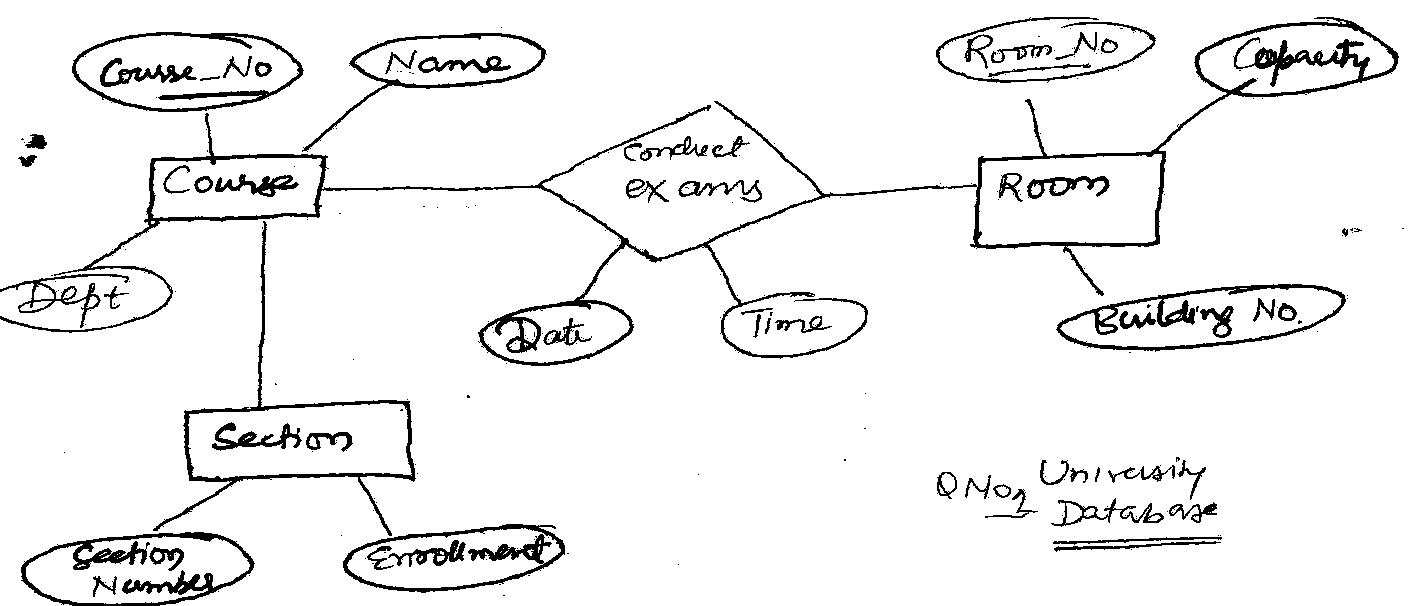
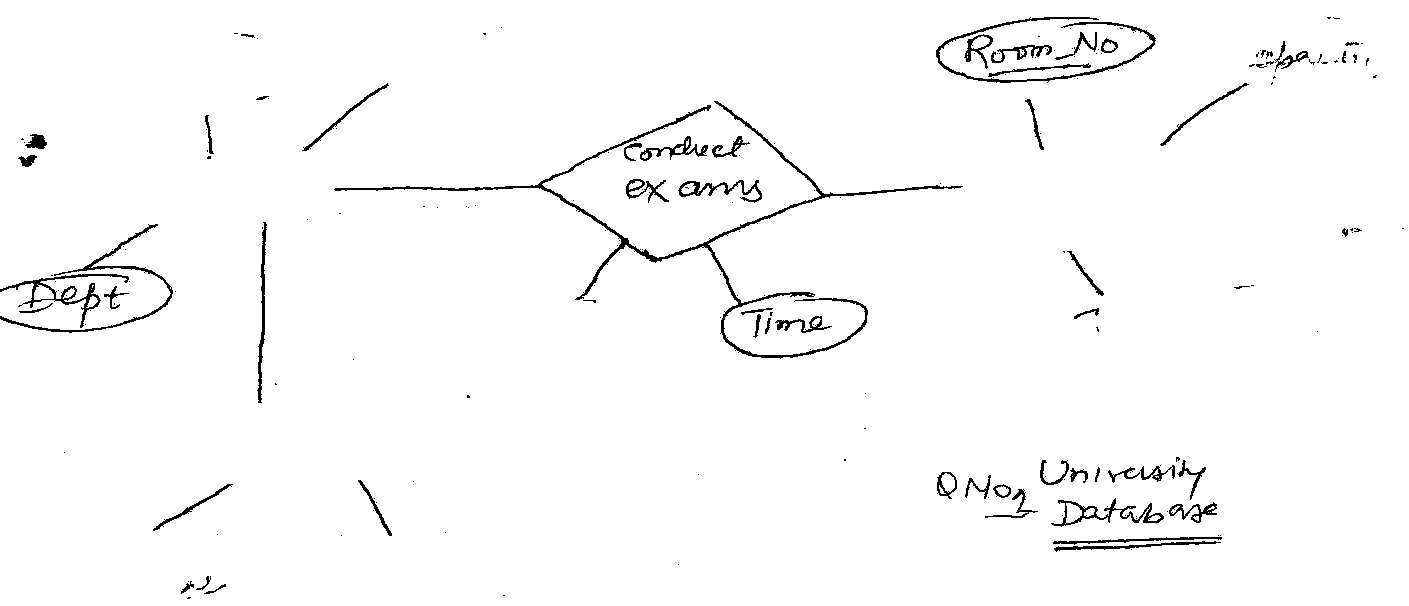
close opened shapes

diff --git a/src/removeLines.py b/src/removeLines.py
@@ -74,3 +74,69 @@ def getClosedShapes(im_filled,debug=False):
         cv2.imwrite("contoured.png", im_empty[:,:,0])
 
     return im_empty[:,:,0] , filtered_contoures
+
+
+#handling opened contours
+
+# find center of gravity from the moments:
+def scale_contours(contours, scale):
+    """Shrinks or grows an array of contours by the given factor (float). 
+    Returns the resized array of contours"""
+    for idx,contour in enumerate(contours):
+        moments = cv2.moments(contour)
+        midX = int(round(moments["m10"] / moments["m00"]))
+        midY = int(round(moments["m01"] / moments["m00"]))
+        mid = np.array([midX, midY])
+        contours[idx] = contour - mid
+        contours[idx] = (contours[idx] * scale).astype(np.int32)
+        contours[idx] = contours[idx] + mid
+    return contours
+
+def isOverlapped(c,imgContours):
+    cXmin,cYmin,cXmax,cYmax = cv2.boundingRect(c)
+    cArea = cXmax * cYmax
+    cXmax += cXmin
+    cYmax += cYmin
+    for imgContour in imgContours:
+        Xmin,Ymin,Xmax,Ymax = cv2.boundingRect(imgContour)
+        Xmax += Xmin
+        Ymax += Ymin
+        if(cXmin > Xmin and cXmax < Xmax and cYmin >= Ymin and cYmax <= Ymax):
+            return True
+    return False
+def getOpenedContours(img,closed_contours=[],debug = False):
+    closed_contours = scale_contours(closed_contours,1.2)
+    cv2.drawContours(img,closed_contours,-1, 255,-1 )
+    _,contours, hierarchy = cv2.findContours(255 - img, cv2.RETR_EXTERNAL, cv2.CHAIN_APPROX_SIMPLE)
+    img_parent = np.ones(img.shape, np.uint8) * 255
+    parentContours =[]
+    for i,cnt in enumerate(contours):
+        x,y,w,h = cv2.boundingRect(cnt)
+        if not isOverlapped(cnt,contours) and hierarchy[0,i,3]==-1 and h>10 and w>15 and w/h>1.5 and w/h<4:
+            parentContours.append(cnt)
+
+    cv2.drawContours(img_parent,parentContours,-1, 0, -1 )
+    img_parent = 255 - img_parent 
+    kernel = cv2.getStructuringElement(cv2.MORPH_RECT,(3,3))
+    dilated = cv2.dilate(img_parent,kernel,iterations=3)
+    edges = cv2.Canny(dilated, 0, 84, apertureSize=3)
+    #get child contours and draw hull
+    img_inner_contour = np.ones(img.shape, np.uint8) * 255
+    _,contours, hierarchy = cv2.findContours(edges, cv2.RETR_TREE, cv2.CHAIN_APPROX_SIMPLE)
+    contours = [cnt for i,cnt in enumerate(contours) if isOverlapped(cnt,contours) ]
+    cv2.drawContours(img_inner_contour,contours,-1, 0, 1 )
+    eroded = cv2.erode(img_inner_contour,kernel,iterations=3)
+    _,contours, hierarchy = cv2.findContours(255-eroded, cv2.RETR_EXTERNAL, cv2.CHAIN_APPROX_SIMPLE)
+    opened_contours = np.ones(img.shape, np.uint8) * 255
+
+    cv2.drawContours(opened_contours,contours,-1, 0, 1 )
+    if(debug):
+        cv2.imwrite("contoured_img.png",img)
+        cv2.imwrite("img_parent.png",img_parent)
+        cv2.imwrite("dilated.png",dilated)
+        cv2.imwrite("edges.png",edges)
+        cv2.imwrite("img_inner_contour.png",img_inner_contour)
+        cv2.imwrite("eroded.png",eroded)
+        cv2.imwrite("opened_contours.png",opened_contours)
+    return opened_contours,contours
+

diff --git a/src/main.py b/src/main.py
@@ -12,4 +12,6 @@ shadowFreeImg = RemoveShadow(warpedImg,True)
 binarizedImg = Binarize(shadowFreeImg,True)
 filledImg = FloodFromCorners(binarizedImg.astype(np.uint8).copy(),True)
 contourdImg,filtered_contoures = getClosedShapes(filledImg,True)
+image_result = binarizedImg.astype(np.uint8).copy()
+opendContourdImg,opened_contours = getOpenedContours(image_result,filtered_contoures,True)
 shapes_no = seperateShapes(filtered_contoures , contourdImg , binarizedImg)
